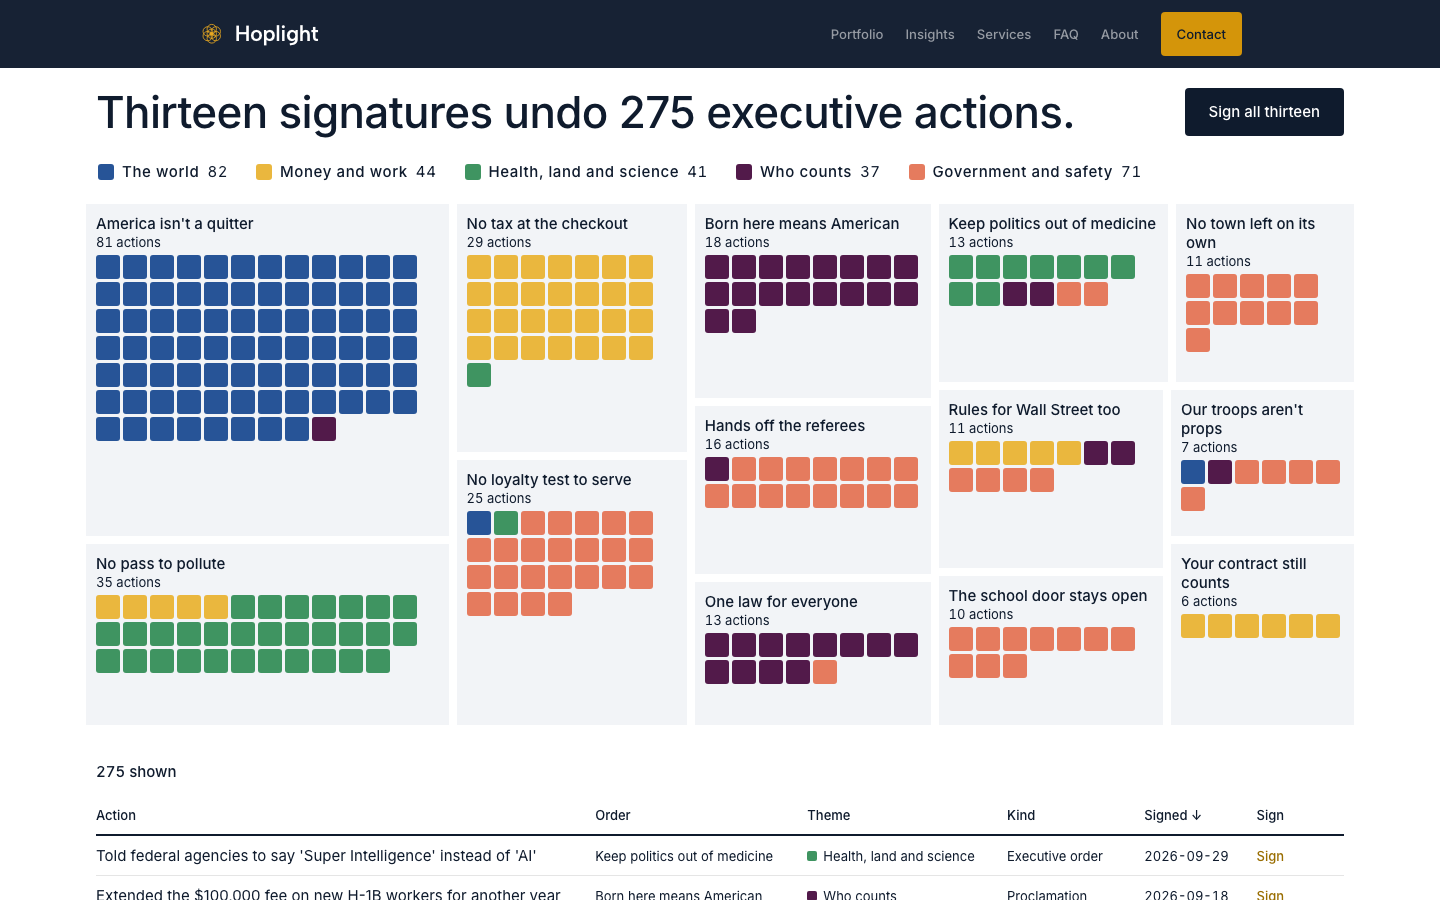
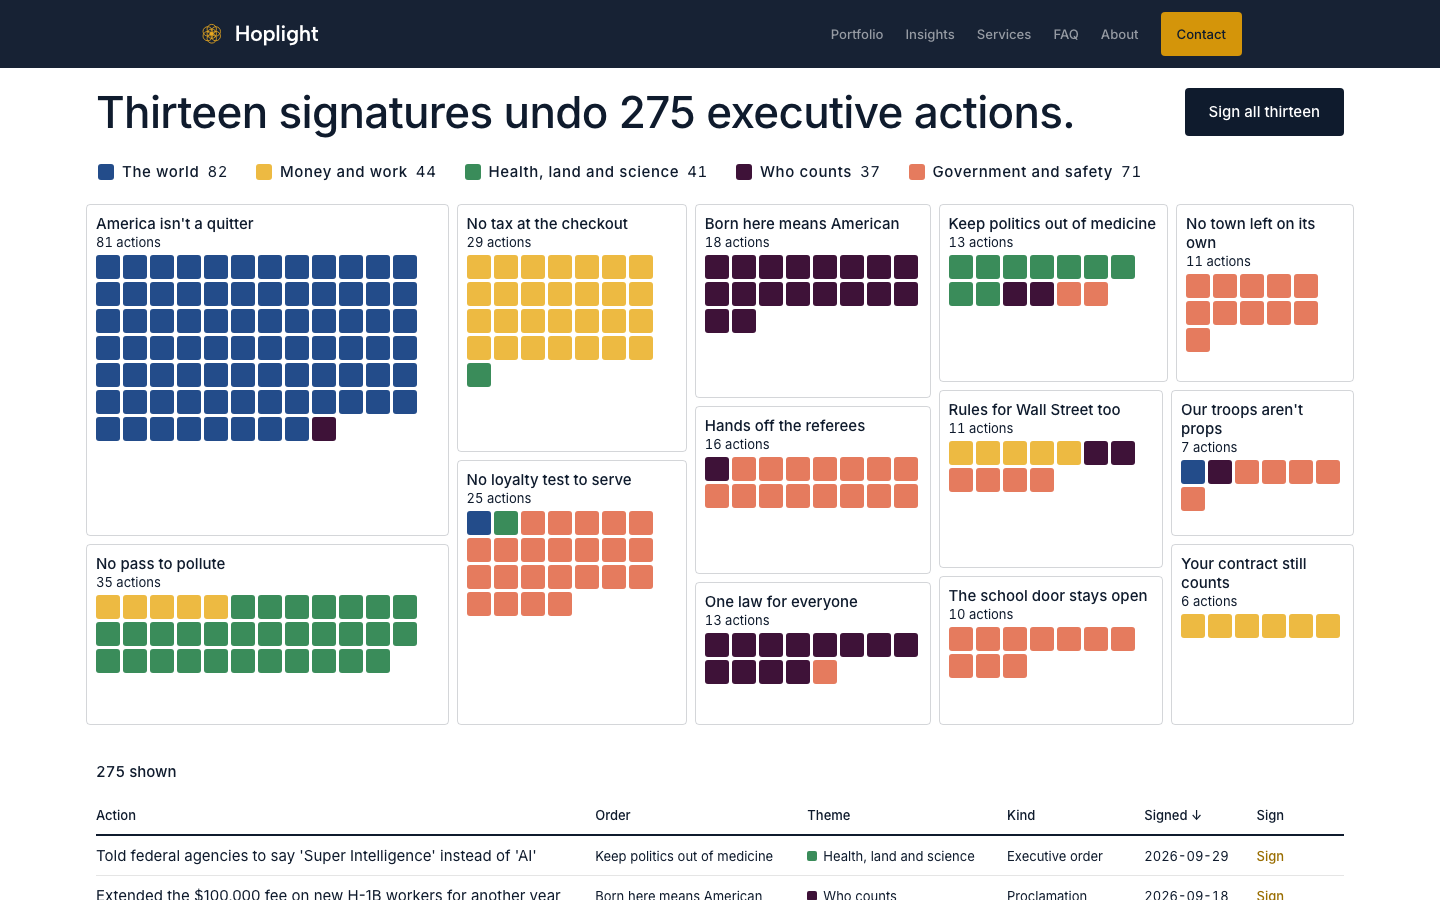
undo: round three of the tree of lit squares (Portfolio UNDOTREE1)
A signed square is hollow, white inside with a 2px navy edge, so it differs from every theme square by shape and survives grayscale. Tiles are white, marked by the line-card edge with no fill. The five hues sit on evenly spread grey steps (35, 71, 110, 151, 188). Tests pin the hollow square, the tile edge and the grey steps; 328 of 329 pass, 1 skipped, 0 fail.

diff --git a/src/app/globals.css b/src/app/globals.css
@@ -1365,7 +1365,7 @@ header.site .brand, footer.site .brand { min-height: 44px; }
 
 /* ===== The Undo List first screen: the tree of lit squares (UNDOTREE1, 2026-11-18) =====
    Inter only, two weights (400, 500), four sizes (44 or 30 on the phone, 22, 15, 13). White ground;
-   navy for type, outlines, the one button and signed squares (with a fill-gold ring); text gold for
+   navy for type, outlines, the one button and the edge of a signed (hollow) square; text gold for
    the Sign links; the five theme hues from src/lib/undo/themes.ts (hue, then its tint); deep gold (--ring) for focus,
    since fill gold is 2.6:1 on white;
    grey only for the table's rules. */
@@ -1387,27 +1387,29 @@ header.site .brand, footer.site .brand { min-height: 44px; }
 
 /* The tree: rectangles placed by the squarified layout, squares placed inside them. */
 .undo-tree { position: relative; margin: 0 -14px; }
-.undo-rect { position: absolute; padding: 4px; pointer-events: none; background-color: #F2F4F7; background-clip: content-box; }
+.undo-rect { position: absolute; padding: 4px; pointer-events: none; }
+/* A tile is white, marked by the line-card edge like any card on the site; no fill, no shadow. */
+.undo-rect::before { content: ""; position: absolute; inset: 4px; border: 1px solid var(--line-card); border-radius: var(--radius-sm); pointer-events: none; }
 .undo-rect-name { pointer-events: auto; position: absolute; left: 4px; right: 4px; top: 4px; display: block; padding: 10px 10px 0; text-align: left; font: inherit; color: var(--ink); background: none; border: 0; cursor: pointer; }
 .undo-rect-frame { display: block; font-size: 15px; line-height: 19px; font-weight: 500; }
 .undo-rect-count { display: block; font-size: 13px; line-height: 18px; font-variant-numeric: tabular-nums lining-nums; }
 .undo-rect-name:hover .undo-rect-frame, .undo-rect.is-lit .undo-rect-frame { text-decoration: underline; text-decoration-thickness: 2px; text-underline-offset: 3px; }
 .undo-sq { position: absolute; padding: 0; border: 0; border-radius: 3px; cursor: pointer; transition: background-color 160ms ease-out, box-shadow 160ms ease-out; }
 .undo-sq:focus-visible { outline: none; box-shadow: 0 0 0 3px var(--ring); z-index: 2; }
-.t-world { background-color: #275497; }
-.t-money { background-color: #EAB73E; }
-.t-land { background-color: #3F9461; }
-.t-people { background-color: #521A4A; }
+.t-world { background-color: #234C8A; }
+.t-money { background-color: #EDBA42; }
+.t-land { background-color: #3A8C5A; }
+.t-people { background-color: #3E1238; }
 .t-gov { background-color: #E57B5E; }
-.undo-sq.is-tint.t-world { background-color: #CBD6E6; }
-.undo-sq.is-tint.t-money { background-color: #F6E1AE; }
-.undo-sq.is-tint.t-land { background-color: #D1E5D9; }
-.undo-sq.is-tint.t-people { background-color: #D5C8D4; }
+.undo-sq.is-tint.t-world { background-color: #CAD4E3; }
+.undo-sq.is-tint.t-money { background-color: #F7E2B0; }
+.undo-sq.is-tint.t-land { background-color: #D0E3D7; }
+.undo-sq.is-tint.t-people { background-color: #D1C6CF; }
 .undo-sq.is-tint.t-gov { background-color: #F9DFD8; }
 .undo-sq.is-lit { box-shadow: inset 0 0 0 2px var(--ink); }
-/* Signed: navy with a fill-gold ring, so it never reads as a money square, in colour or in grey. */
-.undo-sq.is-signed { background-color: #0F1B2D; box-shadow: inset 0 0 0 2px #D4950A; }
-.undo-sq.is-signed.is-tint { background-color: #A9ADB3; }
+/* Signed: hollow, white inside with a navy edge, so it differs by shape from every theme square. */
+.undo-sq.is-signed { background-color: #FFFFFF; box-shadow: inset 0 0 0 2px #0F1B2D; }
+.undo-sq.is-signed.is-tint { background-color: #FFFFFF; box-shadow: inset 0 0 0 2px #A9ADB3; }
 .undo-sq.is-me { box-shadow: inset 0 0 0 3px var(--ink), inset 0 0 0 5px var(--white); }
 
 /* The popup: beside the lit rectangle on the desktop, a bottom sheet on the phone. Fill and shadow,
@@ -1468,6 +1470,7 @@ span.undo-th { cursor: default; }
   .undo-chip[aria-pressed="true"] .undo-chip-name { text-decoration: none; }
   .undo-tree { margin: 0 -9px; }
   .undo-rect { padding: 3px; }
+  .undo-rect::before { inset: 3px; }
   .undo-rect-name { padding: 6px 6px 0; left: 3px; right: 3px; top: 3px; }
   .undo-rect-frame { font-size: 13px; line-height: 16px; }
   .undo-rect-count { line-height: 16px; }

diff --git a/src/lib/undo/themes.ts b/src/lib/undo/themes.ts
@@ -27,15 +27,18 @@ export function tintOf(hex: string, a: number): string {
 
 // The tint is 24 percent of the hue; gold's is 42 percent, because a paler gold reads as cream and
 // the site refuses a cream ground (scripts/no-cream-test.mjs: a warm tint lighter than 85 percent).
-// The five hues sit on five grey steps (Rec. 601 luma 48, 78, 117, 151, 184; round two of UNDOTREE1,
-// 2026-11-18), so the tree still reads in grayscale: who counts darkest, money lightest.
+// The five hues sit on five grey steps about evenly spread (Rec. 601 luma 35, 71, 110, 151, 188;
+// round three of UNDOTREE1, 2026-11-18), so the tree still reads in grayscale: who counts darkest,
+// money lightest.
 const T = (key: ThemeKey, name: string, hex: string, issues: IssueKey[], a = 0.24): Theme => ({ key, name, hex, tint: tintOf(hex, a), issues });
 
-/** A signed square is navy with a fill-gold inner outline, so it never reads as a money square,
- *  in colour or in grey. When it steps back, the navy goes to 36 percent and keeps the outline. */
-export const SIGNED = '#0F1B2D';
-export const SIGNED_RING = '#D4950A';
-export const SIGNED_TINT = tintOf(SIGNED, 0.36);
+/** A signed square is hollow: white inside with a 2px navy edge (round three of UNDOTREE1,
+ *  2026-11-18). It differs from every theme square by shape, so it survives grayscale and colour
+ *  blindness; a navy fill read the same as the who-counts plum in grey. When it steps back, the
+ *  edge goes to 36 percent navy. */
+export const SIGNED = '#FFFFFF';
+export const SIGNED_EDGE = '#0F1B2D';
+export const SIGNED_TINT = tintOf(SIGNED_EDGE, 0.36);
 
 /** Rec. 601 luma, the grey a colour prints as. */
 export function greyOf(hex: string): number {
@@ -44,10 +47,10 @@ export function greyOf(hex: string): number {
 }
 
 export const THEMES: Theme[] = [
-  T('world', 'The world', '#275497', ['allies']),
-  T('money', 'Money and work', '#EAB73E', ['prices', 'paycheck', 'farms-rural'], 0.42),
-  T('land', 'Health, land and science', '#3F9461', ['health', 'air-water', 'science']),
-  T('people', 'Who counts', '#521A4A', ['immigrants', 'equal-treatment', 'women', 'lgbtq']),
+  T('world', 'The world', '#234C8A', ['allies']),
+  T('money', 'Money and work', '#EDBA42', ['prices', 'paycheck', 'farms-rural'], 0.42),
+  T('land', 'Health, land and science', '#3A8C5A', ['health', 'air-water', 'science']),
+  T('people', 'Who counts', '#3E1238', ['immigrants', 'equal-treatment', 'women', 'lgbtq']),
   T('gov', 'Government and safety', '#E57B5E', ['government-works', 'checks-on-power', 'public-safety', 'veterans', 'schools']),
 ];
 
